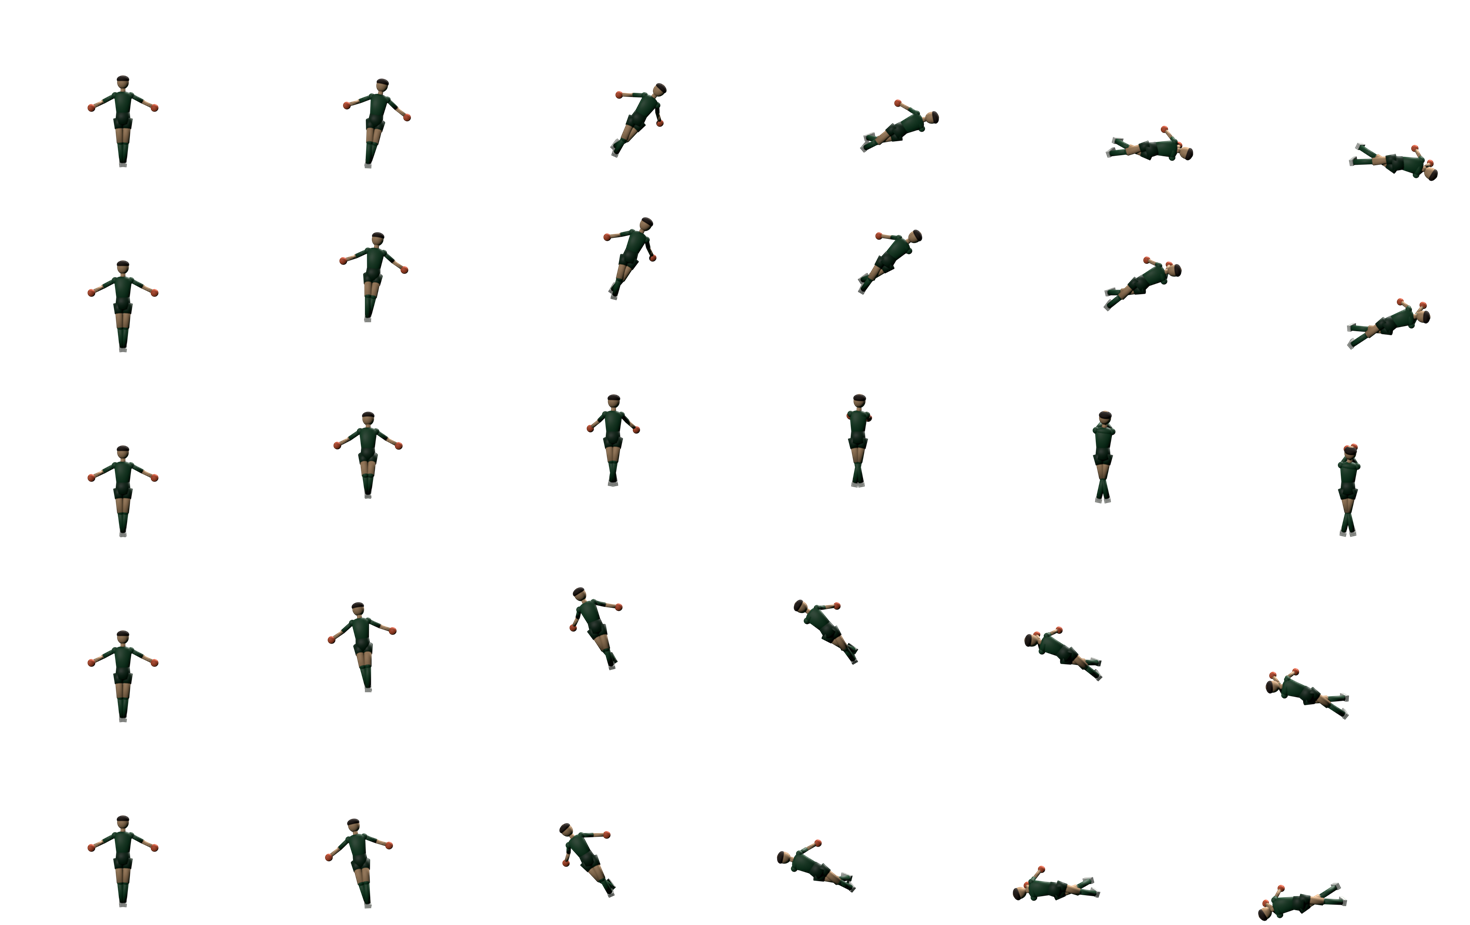
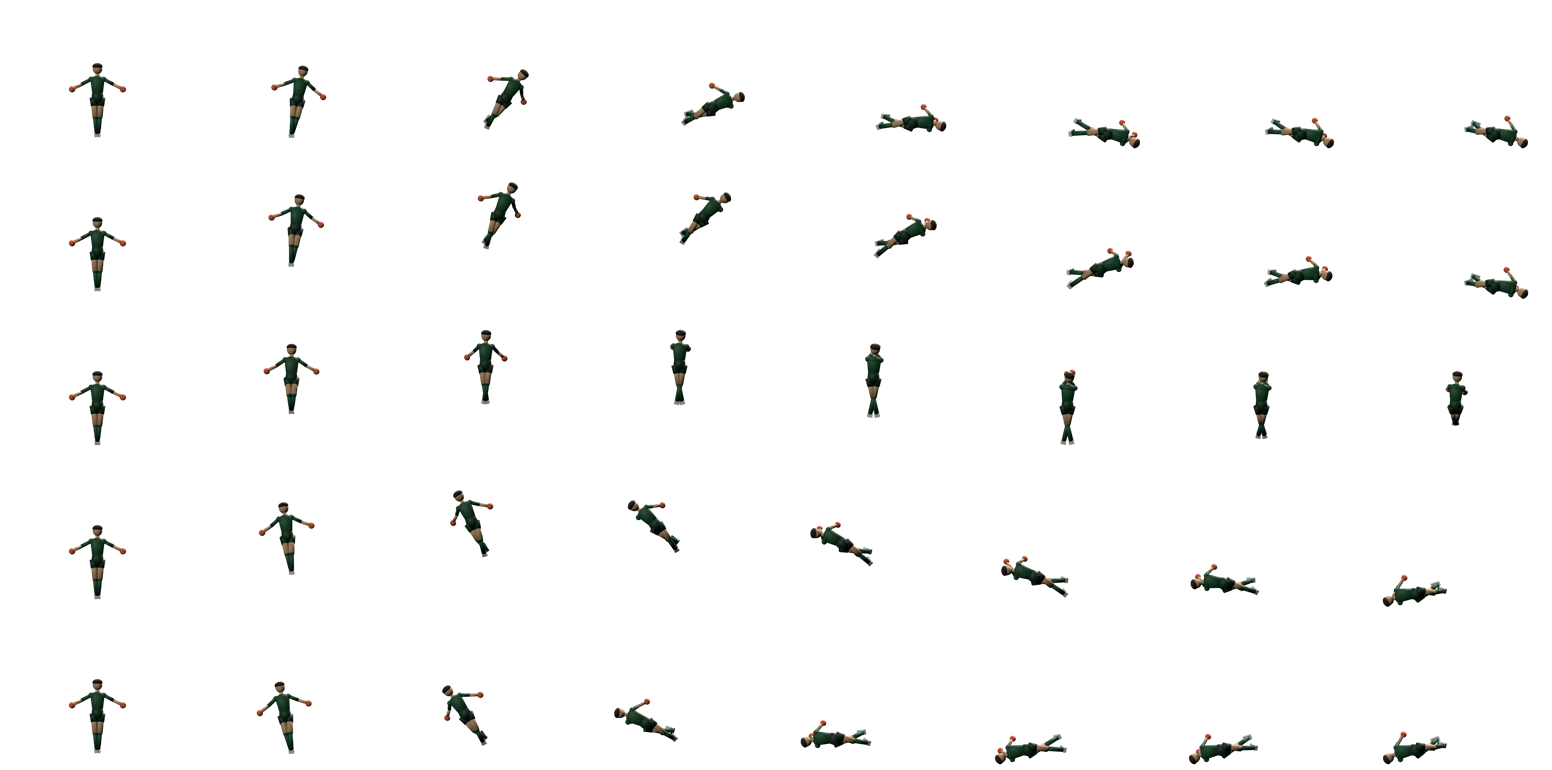
Add files via upload

diff --git a/index.html b/index.html
@@ -112,13 +112,15 @@ const V={
  kick:{ W:760,H:1500, bg:'art/bg_kick.jpg',
    PR:{TI:[0.0608,0.6134],TD:[0.9392,0.6134],BI:[0.0665,0.4665],BD:[0.9335,0.4665],spot:[0.5,0.2950]},
    kb:[0.2490,0.7510,0.1301,0.5411], ks:{img:'art/kick_sheet.png',cols:4,w:172,h:278},
-   gb:[0.2301,0.7699,0.4454,0.6659], gs:{img:'art/gk_sheet.png',cols:6,w:205,h:166} },
- save:{ W:760,H:1000, bg:'art/bg_save.jpg',
-   PR:{TI:[1.0037,0.5763],TD:[-0.0037,0.5763],BI:[0.9899,0.3271],BD:[0.0101,0.3271],spot:[0.5,0.4750]},
-   kb:[0.4453,0.5547,0.4571,0.5710], ks:{img:'art/save_kicker.png',cols:4,w:83,h:114},
-   gb:[0.1776,0.8224,0.2924,0.6610], gs:{img:'art/save_gk.png',cols:6,w:245,h:185} }
+   gb:[0.2301,0.7699,0.4454,0.6659], gs:{img:'art/gk_sheet.png',cols:8,w:168,h:136} },
+ save:{ W:760,H:1500, bg:'art/bg_save.jpg',
+   PR:{TI:[0.9827,0.5481],TD:[0.0173,0.5481],BI:[0.9720,0.3883],BD:[0.0280,0.3883],spot:[0.5,0.4818]},
+   kb:[0.4397,0.5603,0.4661,0.5546], ks:{img:'art/save_kicker.png',cols:4,w:91,h:132},
+   gb:[0.1956,0.8044,0.3625,0.6060], gs:{img:'art/save_gk.png',cols:8,w:194,h:154} }
 };
-const KS_CONTACT=8, KS_LAST=15, GS_FRAMES=6;
+const KS_CONTACT=8, KS_LAST=15;
+// 8 cuadros del arquero: 0-5 vuelo, 6-7 caida al piso
+const gkFrame=t => t<=1 ? Math.min(5,Math.round(t*5)) : Math.min(7, 6+Math.round((t-1)/0.35));
 // cuerpo real del arquero medido en Blender (metros): segmento pies -> manos
 const GOAL_HW=3.66, GOAL_H=2.44, TRAVEL=1.537, GK_R=0.41, DIVE_T=0.42;
 const DIVES=[
@@ -187,7 +189,7 @@ board();
 // ================= flujo =================
 function startMatch(){ sY=sR=kMine=kRiv=idx=0; pipY=[];pipR=[];over=null;done=false; board(); nextPen(); }
 function nextPen(){
-  shot=null; gk={type:2,t:0,launched:false}; drag=null; path=[]; anim=0; pend=null; hideB(); hideW();
+  shot=null; post=null; gk={type:2,t:0,launched:false}; drag=null; path=[]; anim=0; pend=null; hideB(); hideW();
   view = amShooter()?'kick':'save'; relayout();
   if(amShooter()){ ph=PH.ANN; rv.textContent='TÚ PATEAS'; rv.style.color='var(--save)';
     setH('Desliza <b>desde el balón</b>. Curva = efecto · recoge el dedo = cancelar · suave + ganchito = <b>panenka</b>'); }
@@ -266,6 +268,7 @@ function applyOutcome(o, iAmShooter, dnx, dny, dtype){
     else if(o==='save'){ banner('save','¡ATAJADA!','¡La sacaste!'); sfx.save(); flash=1; shake=9; if(dnx!=null){shot.cnx=dnx;shot.cny=dny;} shot.saved=true; burst(goalPt(dnx,dny),'#54C7FF'); }
     else banner('miss', o==='post'?'¡AL PALO!':o==='high'?'¡POR ENCIMA!':o==='wide'?'¡AFUERA!':'¡FLOJO!','El rival falló'), sfx.miss();
   }
+  startPost(o,dnx,dny);
   hideW(); registerOutcome(iAmShooter, scored);
 }
 function resolveAsKeeper(){
@@ -338,7 +341,7 @@ function drawBG(){ const v=VW(), k=(view==='kick'?'kbg':'sbg');
   if(LY.oy>0){ ctx.fillStyle='#061109'; ctx.fillRect(0,0,W,LY.oy+1); }
   if(LY.ox>0){ ctx.fillStyle='#061109'; ctx.fillRect(0,0,LY.ox+1,H); ctx.fillRect(W-LY.ox-1,0,LY.ox+1,H); } }
 function drawKeeper(){ const v=VW(), img=IMG[view==='kick'?'kgs':'sgs']; if(!img)return;
-  const d=DIVES[gk.type], p=Math.min(1,gk.t), i=Math.min(GS_FRAMES-1,Math.round(p*(GS_FRAMES-1)));
+  const d=DIVES[gk.type], p=Math.min(1,gk.t), i=gkFrame(gk.t);
   const halfU=(v.PR.BD[0]-v.PR.BI[0])/2;
   const r=rectB(v.gb, d.dir*0.42*p*halfU);
   ctx.drawImage(img, i*v.gs.w, d.row*v.gs.h, v.gs.w, v.gs.h, r.x,r.y,r.w,r.h); }
@@ -352,10 +355,22 @@ const ballR=t=>lerp(goalWpx()*(view==='kick'?0.058:0.020), goalWpx()*(view==='ki
 function ball(x,y,r){ ctx.fillStyle='#fff'; ctx.beginPath(); ctx.arc(x,y,r,0,7); ctx.fill();
   ctx.fillStyle='#12291b'; ctx.beginPath(); ctx.arc(x-r*.18,y-r*.16,r*.27,0,7); ctx.fill();
   ctx.beginPath(); ctx.arc(x+r*.4,y+r*.3,r*.14,0,7); ctx.fill(); }
+// rebote / continuidad del balon despues del desenlace
+let post=null;
+function startPost(o,dnx,dny){
+  const tp=(o==='save'&&dnx!=null)?goalPt(dnx,dny):goalPt(shot.nx,shot.ny), sp=spotPt();
+  const away=(tp.x>=W/2?1:-1);
+  let vx,vy;
+  if(o==='save'){ vx=away*W*(0.55+Math.random()*0.45); vy=-H*(0.18+Math.random()*0.16); }   // sale rechazado
+  else if(o==='goal'){ vx=(tp.x-sp.x)*0.22; vy=H*0.10; }                                    // se hunde en la red
+  else { vx=(tp.x-sp.x)*0.45; vy=-H*0.06; }                                                 // se va de largo
+  post={x:tp.x,y:tp.y,vx,vy,r:ballR(1)};
+}
 function drawBall(){ const sp=spotPt();
+  if(post){ ball(post.x,post.y,post.r); return; }
   if(!shot || ph===PH.AIM || ph===PH.ANN || ph===PH.WIND){ ball(sp.x,sp.y,ballR(0)); return; }
   const t=clamp(shot.t,0,1);
-  const tp=(ph===PH.RES&&shot.saved&&shot.cnx!=null)?goalPt(shot.cnx,shot.cny):goalPt(shot.nx,shot.ny);
+  const tp=goalPt(shot.nx,shot.ny);
   const lift=(shot.pan?0.16:0.05*(shot.power||.5))*H*Math.sin(Math.PI*t);
   ball(lerp(sp.x,tp.x,t), lerp(sp.y,tp.y,easeIn(t))-lift, ballR(t)); }
 function drawAim(){
@@ -401,8 +416,10 @@ function frame(now){
   else if(ph===PH.INC&&shot){ anim+=dt; shot.t+=dt/shot.dur;
     if(gk.launched) gk.t=Math.min(1,gk.t+dt/DIVE_T);
     if(shot.t>=1){ shot.t=1; resolveAsKeeper(); } }
-  else if(ph===PH.RES){ anim+=dt; if(gk.launched||view==='kick') gk.t=Math.min(1,gk.t+dt/DIVE_T);
-    if(clock>1.6) afterRes(); }
+  else if(ph===PH.RES){ anim+=dt;
+    if(gk.launched||view==='kick') gk.t=Math.min(1.7,gk.t+dt/DIVE_T);   // sigue hasta caer al piso
+    if(post){ post.x+=post.vx*dt; post.y+=post.vy*dt; post.vy+=H*1.6*dt; post.vx*=(1-0.7*dt); }
+    if(clock>1.9) afterRes(); }
   ctx.clearRect(0,0,W,H); ctx.save();
   if(shake>0){ ctx.translate((Math.random()-.5)*shake,(Math.random()-.5)*shake); shake*=.85; if(shake<.4)shake=0; }
   drawBG();

diff --git a/practica.html b/practica.html
@@ -85,7 +85,8 @@ const BG_W=760, BG_H=1500;
 const B_KICK=[0.2490,0.7510,0.1301,0.5411];      // recorte del pateador (u0,u1,v0,v1)
 const B_GK  =[0.2301,0.7699,0.4454,0.6659];      // recorte del arquero
 const KS_COLS=4,KS_W=172,KS_H=278,KS_CONTACT=8,KS_LAST=15;
-const GS_COLS=6,GS_W=205,GS_H=166,GS_FRAMES=6;
+const GS_COLS=8,GS_W=168,GS_H=136;
+const gkFrame=t => t<=1 ? Math.min(5,Math.round(t*5)) : Math.min(7, 6+Math.round((t-1)/0.35));
 const PR={ TI:[0.0608,0.6134], TD:[0.9392,0.6134], BI:[0.0665,0.4665], BD:[0.9335,0.4665], spot:[0.5,0.2950] };
 // Cuerpo real del arquero medido en Blender (metros): segmento pies -> manos, quieto y estirado
 const GOAL_HW=3.66, GOAL_H=2.44, TRAVEL=1.537, GK_R=0.41;
@@ -244,7 +245,7 @@ function rectFromBorder(b,dxu){
 function drawKeeper(){
   if(!IMG.g) return;
   const d=DIVES[gk.type], p=Math.min(1,gk.t);
-  const i=Math.min(GS_FRAMES-1,Math.round(p*(GS_FRAMES-1)));
+  const i=gkFrame(gk.t);
   const sx=i*GS_W, sy=d.row*GS_H;
   const halfU=(PR.BD[0]-PR.BI[0])/2;
   const r=rectFromBorder(B_GK, d.dir*0.42*p*halfU);   // ademas del giro, se desplaza al palo
@@ -321,7 +322,7 @@ function frame(now){
   if(st===S.WIND){ anim+=dt; if(anim>=WIND_DUR){ st=S.FLY; shake=5; (shot.pan?sfx.chip:sfx.kick)(); } }
   else if(st===S.FLY&&shot){ anim+=dt; shot.t+=dt/shot.dur; gk.t=Math.min(1,gk.t+dt/0.42);
     if(shot.t>=1){ shot.t=1; finish(); } }
-  else if(st===S.RES){ anim+=dt; gk.t=Math.min(1,gk.t+dt/0.42); }
+  else if(st===S.RES){ anim+=dt; gk.t=Math.min(1.7,gk.t+dt/0.42); }
   ctx.clearRect(0,0,W,H); ctx.save();
   if(shake>0){ ctx.translate((Math.random()-.5)*shake,(Math.random()-.5)*shake); shake*=.85; if(shake<.4)shake=0; }
   drawBG(); drawKeeper(); drawBall(); drawKicker(); drawAim(); drawParts();
